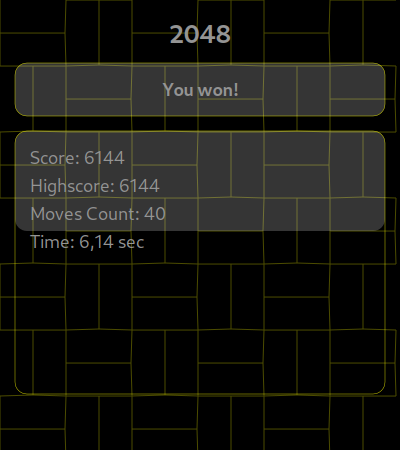
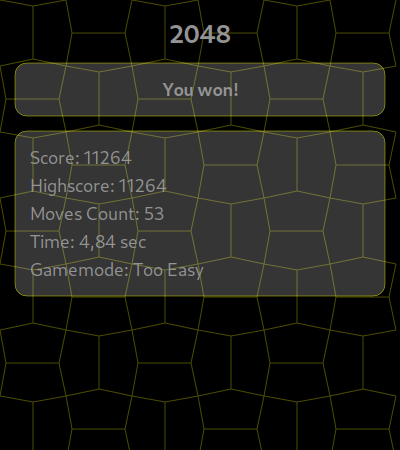
Still working on the export score function

Changed region(s): [[0.0, 0.0, 1.0, 1.0], [0.0, 0.0, 0.03, 0.0311]]

diff --git a/main.c b/main.c
@@ -155,6 +155,23 @@ void play_background_music() {
     gst_element_set_state(backgroundpipe, GST_STATE_PLAYING);
 }
 
+char *getgamemode() {
+    if (number2spawn == 1) {
+        return "Hard";
+    } else if (number2spawn == 2)
+    {
+        return "Normal";
+    } else if (number2spawn == 16)
+    {
+        return "Easy";
+    } else if (number2spawn == 256)
+    {
+        return "Too Easy";
+    }
+
+    return "Unknown Error";
+}
+
 void update_score() {
     char score_text[32];
     snprintf(score_text, sizeof(score_text), "Score: %d", score);
@@ -327,16 +344,18 @@ void export_score_png() {
     snprintf(movescountstring, sizeof(movescountstring), "Moves Count: %d", moves);
     char timerstring[32];
     snprintf(timerstring, sizeof(timerstring), "Time: %.2f sec", elapsed);
+    char gamemodestring[32];
+    snprintf(gamemodestring, sizeof(gamemodestring), "Gamemode: %s", getgamemode());
 
     cairo_select_font_face(cr, "Cantarell", CAIRO_FONT_SLANT_NORMAL, CAIRO_FONT_WEIGHT_NORMAL);
     cairo_text_extents(cr, scorestring, &extents);
 
     cairo_set_source_rgba(cr, 1, 1, 1, 0.21);
-    cairo_rounded_rectangle(cr, 15, 20 + temp_dist, 370, 18 + 4 * extents.height + 30, 12);
+    cairo_rounded_rectangle(cr, 15, 20 + temp_dist, 370, 40 + 5 * extents.height + 60, 12);
     cairo_fill(cr);
     cairo_set_source_rgb(cr, 1, 1, 0);
     cairo_set_line_width(cr, 0.4);
-    cairo_rounded_rectangle(cr, 15, temp_dist + 20, 370, temp_dist + 40 + 4 * extents.height + 60, 12);
+    cairo_rounded_rectangle(cr, 15, temp_dist + 20, 370, 40 + 5 * extents.height + 60, 12);
     cairo_stroke(cr);
 
     cairo_set_source_rgb(cr, 0.58, 0.58, 0.58);
@@ -348,6 +367,9 @@ void export_score_png() {
     cairo_show_text(cr, movescountstring);
     cairo_move_to(cr, 30, temp_dist + 40 + 4 * extents.height + 45);
     cairo_show_text(cr, timerstring);
+    cairo_move_to(cr, 30, temp_dist + 40 + 5 * extents.height + 60);
+    cairo_show_text(cr, gamemodestring);
+    temp_dist +=  18 + 5 * extents.height + 65;
 
     cairo_surface_write_to_png(surface, "board.png");
 
